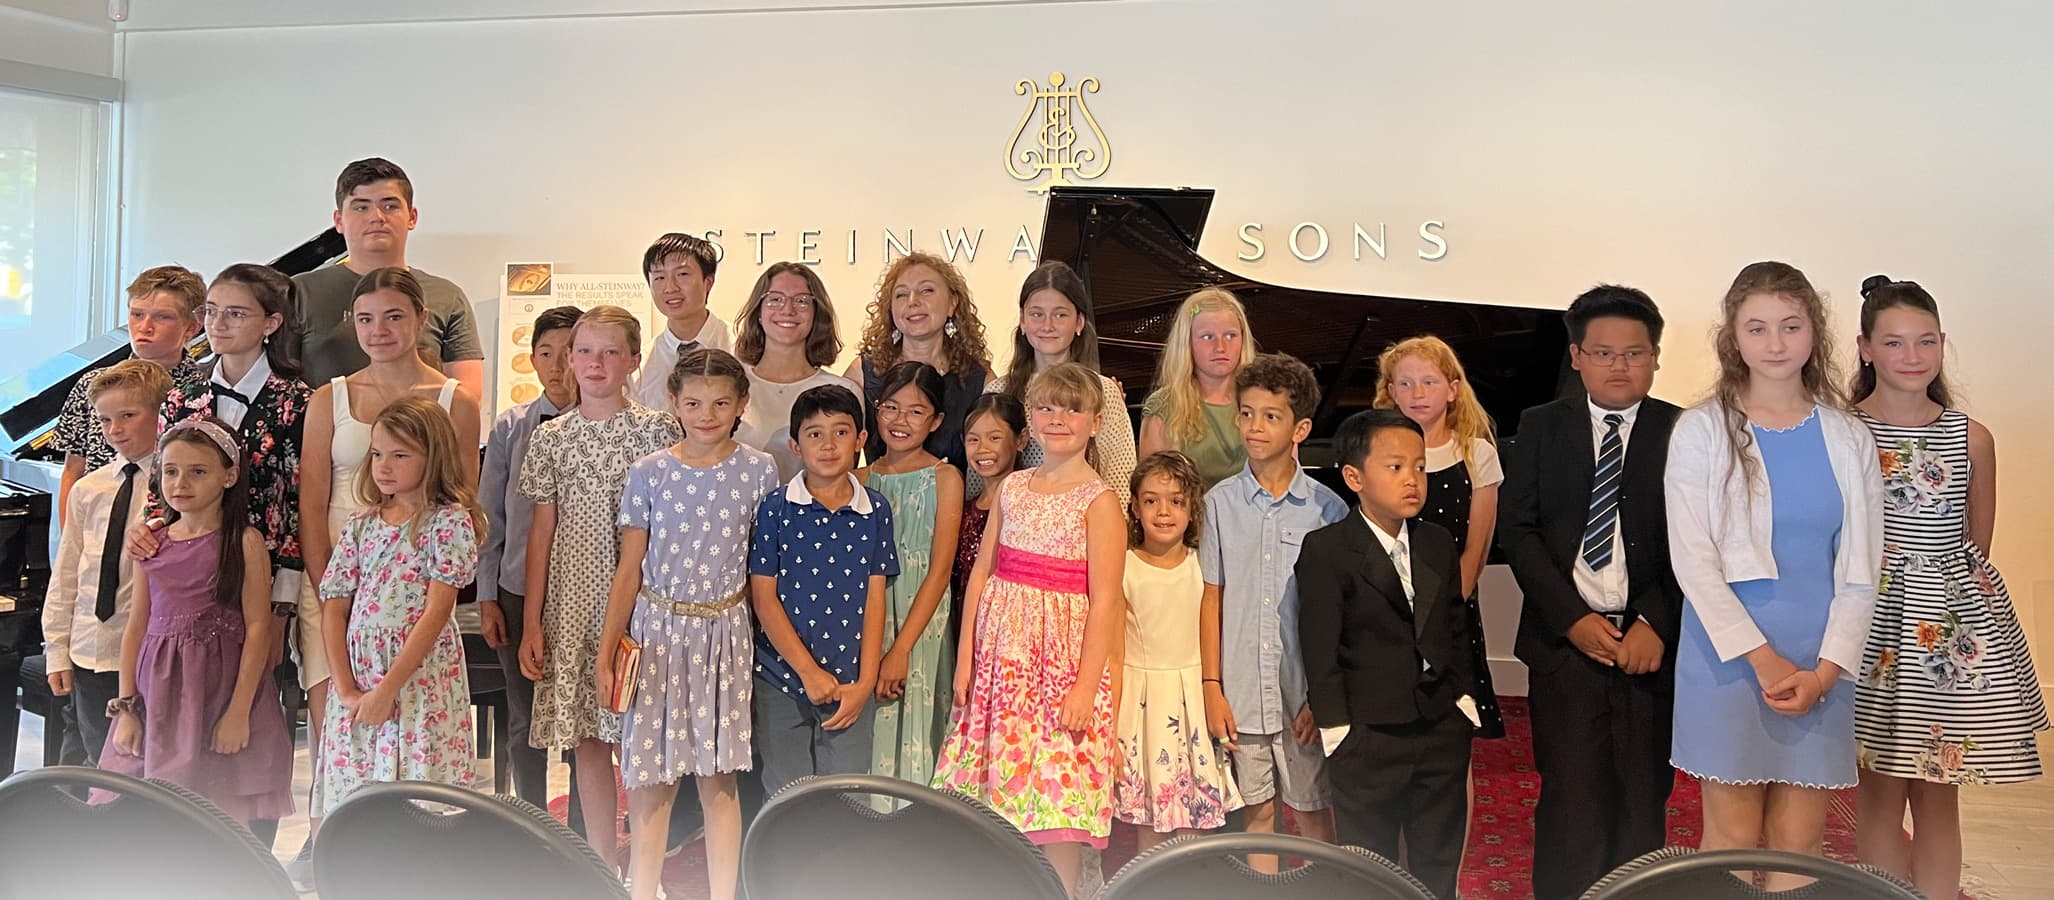
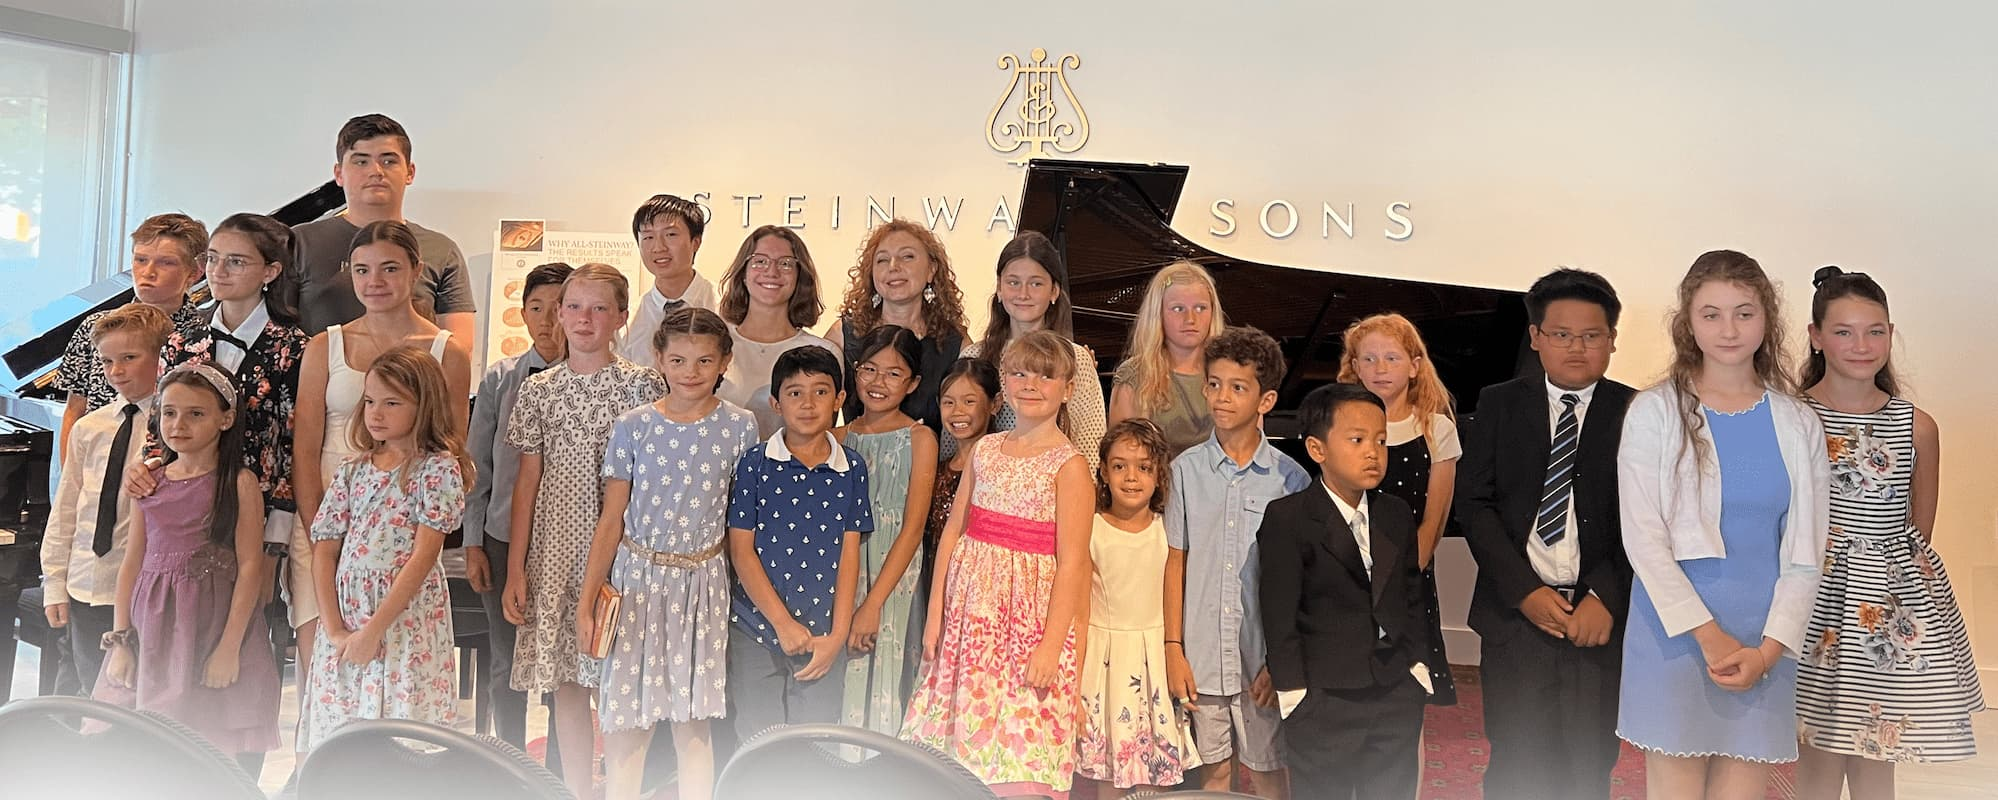
changes in image students

diff --git a/style.css b/style.css
@@ -516,14 +516,14 @@ footer span {
 
 
 .students {
-	background: var(--bkg1) url('./images/students-small.jpg') no-repeat top center;
-	height: 450px;
+	background: var(--bkg1) url('./images/students.jpg') no-repeat fixed center;
+	height: 500px;
 }
 
-@media only screen and (min-width: 623px){
+@media only screen and (max-width: 844px){
 	.students {
-		background: var(--bkg1) url('./images/students.jpg') no-repeat fixed center;
-		height: 500px;
+		background-attachment: scroll;
+		height: 400px;
 	}
 }
 
